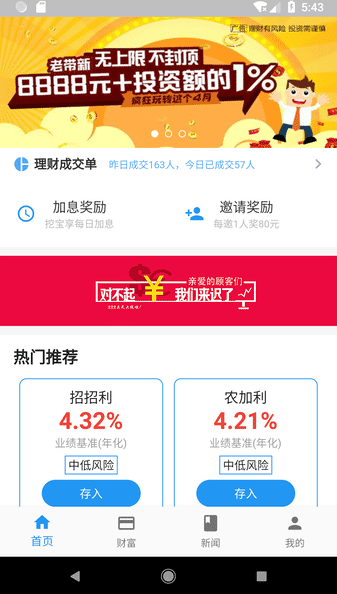
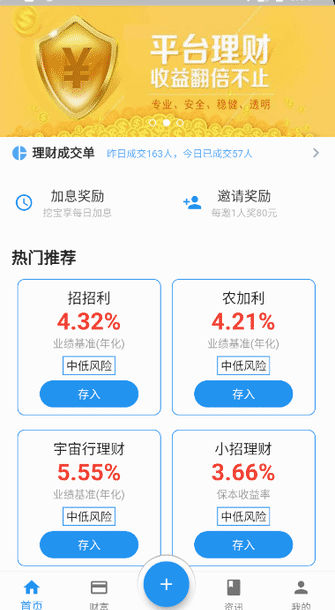
小优化

diff --git a/lib/page/customer/customer_page.dart b/lib/page/customer/customer_page.dart
@@ -1,7 +1,7 @@
 import 'package:flutter/material.dart';
 import 'package:flutter_screenutil/flutter_screenutil.dart';
 // import 'package:zmz_app/unit/event_bus.dart';
-import 'package:zmz_app/storage/storage.dart'; // storage
+import 'package:zmz_app/utils/storage.dart'; // storage
 import 'package:zmz_app/service/api.dart'; // 请求
 import 'package:zmz_app/utils/route_animation.dart'; // 路由动画
 // 页面
@@ -83,9 +83,6 @@ class _CustomerPageState extends State<CustomerPage> {
       {
         'name': '一账通账户',
         'text': '未登录',
-      }, {
-        'name': '万里通账户',
-        'text': '未登录',
       }
     ];
 
@@ -133,7 +130,10 @@ class _CustomerPageState extends State<CustomerPage> {
                   return ExpansionPanel(
                     isExpanded: _expandIndex[0],
                     headerBuilder: (BuildContext context, bool isExpanded){
-                      return Text(val['name']);
+                      return Container(
+                        padding: EdgeInsets.symmetric(horizontal: ScreenUtil().setWidth(15), vertical: ScreenUtil().setWidth(15)),
+                        child: Text(val['name']),
+                      );
                     },
                     body: Container(
                       child: Text(val['text']),
@@ -160,17 +160,33 @@ Widget _registeredWidget ({@required context, @required loginAccount}) {
     return GestureDetector(
       child: Stack(
         children: <Widget>[
-          Image.asset('assets/images/red_envelope.jpg', width: ScreenUtil().setWidth(360), height: ScreenUtil().setWidth(160), fit: BoxFit.fill,),
+          // Image.asset('assets/images/red_envelope.jpg', width: ScreenUtil().setWidth(360), height: ScreenUtil().setWidth(160), fit: BoxFit.fill,),
+          Container(
+            width: ScreenUtil().setWidth(360),
+            height: ScreenUtil().setWidth(160),
+            decoration: BoxDecoration(
+              color: Colors.blue,
+              borderRadius: BorderRadius.all(new Radius.circular(ScreenUtil().setWidth(5))),
+              gradient: LinearGradient(
+                begin: Alignment.topCenter,
+                end: Alignment.bottomCenter,
+                colors: <Color>[
+                  Colors.blue.withAlpha(222),
+                  Colors.blue.withAlpha(120)
+                ]
+              ),
+            ),
+          ),
           Align(
             alignment: Alignment.center,
             child: Column(
               children: <Widget>[
                 Padding(
                   padding: EdgeInsets.only(top: ScreenUtil().setWidth(20)),
-                  child: Text('互联网金融平台', style: TextStyle(color: Color(0xfef3ca80), fontSize: ScreenUtil().setSp(12)))
+                  child: Text('互联网金融平台', style: TextStyle(color: Colors.white, fontSize: ScreenUtil().setSp(12)))
                 ),
                 Padding(
-                  padding: EdgeInsets.only(top: ScreenUtil().setWidth(40)),
+                  padding: EdgeInsets.only(top: ScreenUtil().setWidth(30)),
                   child: FlatButton(
                     disabledTextColor: Colors.blue,
                     disabledColor: Colors.blue,
@@ -182,7 +198,7 @@ Widget _registeredWidget ({@required context, @required loginAccount}) {
                 ),
                 Padding(
                   padding: EdgeInsets.only(top: ScreenUtil().setWidth(6)),
-                  child: Text('立即登录 >', style: TextStyle(color: Color(0xFFFEF3CA), fontSize: ScreenUtil().setSp(13)))
+                  child: Text('立即登录 >', style: TextStyle(color: Colors.white, fontSize: ScreenUtil().setSp(14)))
                 )
               ],
             )

diff --git a/lib/page/treasure/selection/fund_selection_page.dart b/lib/page/treasure/selection/fund_selection_page.dart
@@ -35,26 +35,26 @@ class FundState extends State<FundSelectionPage> with AutomaticKeepAliveClientMi
       width: 300,
       height: 400,
       child: WebView(
-        initialUrl: 'https://zhongmeizhi.github.io/',
-        javascriptMode: JavascriptMode.unrestricted,
-        onWebViewCreated: (WebViewController webViewController) {
-          _controller.complete(webViewController);
-        },
-        javascriptChannels: <JavascriptChannel>[
-          _toasterJavascriptChannel(context),
-        ].toSet(),
-        navigationDelegate: (NavigationRequest request) {
-          // URL拦截
-          if (request.url == 'https://www.baidu.com/') {
-            // 组织链接跳转
-            return NavigationDecision.prevent;
-          }
-          return NavigationDecision.navigate;
-        },
-        onPageFinished: (String url) {
-          print('Page finished loading: $url');
-        },
-      ),
+            initialUrl: 'https://zhongmeizhi.github.io/Interview-Knowledge-FED/',
+            javascriptMode: JavascriptMode.unrestricted,
+            onWebViewCreated: (WebViewController webViewController) {
+              _controller.complete(webViewController);
+            },
+            javascriptChannels: <JavascriptChannel>[
+              _toasterJavascriptChannel(context),
+            ].toSet(),
+            navigationDelegate: (NavigationRequest request) {
+              // URL拦截
+              if (request.url == 'https://www.baidu.com/') {
+                // 组织链接跳转
+                return NavigationDecision.prevent;
+              }
+              return NavigationDecision.navigate;
+            },
+            onPageFinished: (String url) {
+              print('Page finished loading: $url');
+            },
+          )
     );
   }
 }

diff --git a/lib/page/main_page.dart b/lib/page/main_page.dart
@@ -62,7 +62,7 @@ class _MainPageState extends State<MainPage> {
         type: BottomNavigationBarType.fixed, // 如果有4个bar那么必须要设置type
         backgroundColor: Colors.white,
         items: <BottomNavigationBarItem>[
-          new BottomNavigationBarItem(icon: Icon(Icons.home), title: Text('首页')),
+          const BottomNavigationBarItem(icon: Icon(Icons.home), title: Text('首页')),
           const BottomNavigationBarItem(icon: Icon(Icons.payment), title: Text('财富')),
           const BottomNavigationBarItem(icon: Icon(null), title: Text('')), // 空BottomNav
           const BottomNavigationBarItem(icon: Icon(Icons.book), title: Text('资讯')),
@@ -79,7 +79,7 @@ class _MainPageState extends State<MainPage> {
         index: _selectedIndex,
         children: <Widget>[
           new HomePage(),
-          _cachePage(1, TreasurePage()),
+          _selectedIndex == 1 ? TreasurePage() : Container(),
           Container(), // 空BottomNav对应页面
           _cachePage(3, NewsPage()),
           _cachePage(4, CustomerPage()),
@@ -88,8 +88,7 @@ class _MainPageState extends State<MainPage> {
       floatingActionButton: Container(
         padding: EdgeInsets.all(6),
         decoration: BoxDecoration(
-          border: Border.all(
-            width: 1,
+          border: Border.all(width: 1,
             color: Colors.transparent
           ),
           borderRadius: BorderRadius.all(Radius.circular(55)),

diff --git a/lib/view/common/search_bar.dart b/lib/view/common/search_bar.dart
@@ -10,14 +10,16 @@ class SearchBar extends StatelessWidget {
     var _searchValue = '';
 
     return Row(
+      mainAxisAlignment: MainAxisAlignment.center,
       children: <Widget>[
-        InputChip(
+        ActionChip(
           backgroundColor: Colors.white,
+          avatar: Icon(Icons.search, color: Colors.grey),
           label: Container(
             alignment: Alignment.center,
-            width: ScreenUtil().setWidth(250),
+            width: ScreenUtil().setWidth(200),
             height: ScreenUtil().setWidth(22),
-            child: Text('搜索'),
+            child: Text('搜索')
           ),
           onPressed: () {
             showSearch(
@@ -30,8 +32,8 @@ class SearchBar extends StatelessWidget {
         Container(
           child: MaterialButton(
             padding: EdgeInsets.symmetric(horizontal: ScreenUtil().setWidth(15)),
-            minWidth: ScreenUtil().setWidth(33),
-            child: Text('提问', style: TextStyle(color: Colors.white, fontSize: ScreenUtil().setSp(16))),
+            minWidth: ScreenUtil().setWidth(25),
+            child: Text('提问', style: TextStyle(color: Colors.white, fontSize: ScreenUtil().setSp(14))),
             onPressed: () {
               Scaffold.of(context).showSnackBar(const SnackBar(
                 content: Text("不给你提问."),

diff --git a/lib/page/home/home_page.dart b/lib/page/home/home_page.dart
@@ -98,7 +98,6 @@ class _HomePageState extends State<HomePage> {
             _bannerWidget(),
             _displayDataWidget(), 
             _activityAdWidget(activityList: _activityList, context: context),
-            _subscribedWidget(context: context),
             _choicenessWidget(choiceList: _choiceList, context: context)
           ],
         )
@@ -201,26 +200,6 @@ Widget _activityAdWidget ({context, activityList}) {
   return Flex(
     direction: Axis.horizontal,
     children: items,
-  );
-}
-
-Widget _subscribedWidget ({context}) {
-
-  void _clickSubscribed () {
-    Navigator.pushNamed(context, "/login_page", arguments: RouteArguments('name', '想从广告处登陆'));
-  }
-
-  return GestureDetector(
-    child: DecoratedBox(
-        decoration: BoxDecoration(
-            color: Color(0xFFF6F6F6)
-        ),
-        child: Padding(
-          padding: EdgeInsets.only(top: ScreenUtil().setWidth(10), bottom: ScreenUtil().setWidth(10)),
-          child: Image.asset('assets/images/subscribed.jpg', width: ScreenUtil().setWidth(375)),
-        )
-    ),
-    onTap: _clickSubscribed,
   );
 }
 

diff --git a/lib/page/treasure/treasure_page.dart b/lib/page/treasure/treasure_page.dart
@@ -17,7 +17,7 @@ class _TreasurePageState extends State<TreasurePage>
   List tabs = [
     {
       'id': 't1',
-      'label': '学习'
+      'label': '小书房'
     }, {
       'id': 't2',
       'label': '银行精选'
@@ -27,13 +27,7 @@ class _TreasurePageState extends State<TreasurePage>
     }, {
       'id': 't4',
       'label': '转让'
-    }, {
-      'id': 't5',
-      'label': '预约投资'
-    }, {
-      'id': 't6',
-      'label': '普惠'
-    },
+    }
   ];
   TabController _tabController;
 
@@ -61,6 +55,7 @@ class _TreasurePageState extends State<TreasurePage>
     return Scaffold(
       backgroundColor: Color(0xFFffffff),
       appBar: AppBar(
+        automaticallyImplyLeading: false, // 防止自动出现返回键
         title: SearchBar(),
         bottom: TabBar(
           controller: _tabController,

diff --git a/lib/page/treasure/selection/bank_selection_page.dart b/lib/page/treasure/selection/bank_selection_page.dart
@@ -4,7 +4,7 @@ import 'package:zmz_app/view/bank_product.dart';
 // 请求
 import 'package:zmz_app/service/api.dart';
 // storage
-import 'package:zmz_app/storage/storage.dart';
+import 'package:zmz_app/utils/storage.dart';
 // 参数
 import 'package:zmz_app/domain/route_argument.dart';
 

diff --git a/lib/page/login/login_page.dart b/lib/page/login/login_page.dart
@@ -1,7 +1,7 @@
 import 'package:flutter/material.dart';
 import 'package:flutter_screenutil/flutter_screenutil.dart';
 // storage
-import 'package:zmz_app/storage/storage.dart';
+import 'package:zmz_app/utils/storage.dart';
 // 参数
 import 'package:zmz_app/domain/route_argument.dart';
 

diff --git a/back-end/server.js b/back-end/server.js
@@ -22,6 +22,6 @@ app.use(ctx => {
 
 app.listen(2333, function() {
     console.log('---------------------------');
-    console.log('运行');
+    console.log('运行 2333 端口');
     console.log('---------------------------');
 });

diff --git a/lib/config/base_info.dart b/lib/config/base_info.dart
@@ -2,6 +2,6 @@
 class Config {
 
   // 模拟器的浏览器中输入127.0.0.1所代表的是Android模拟器
-  get baseUrl => 'https://ad0a8e01.ngrok.io';
+  get baseUrl => 'http://10.93.157.7:2333';
 
 }

diff --git a/README.md b/README.md
@@ -48,14 +48,12 @@
 
 lib目录：
 * config：配置文件
-* constant：常量，枚举
 * domain：实体类
 * bloc：逻辑模块
 * page：页面
 * plugin：独立组件/插件
 * routes：路由
 * service：接口封装 + API地址
-* storage：LocalStorage方法
 * utils：工具类
 * view：可复用Widget
 
